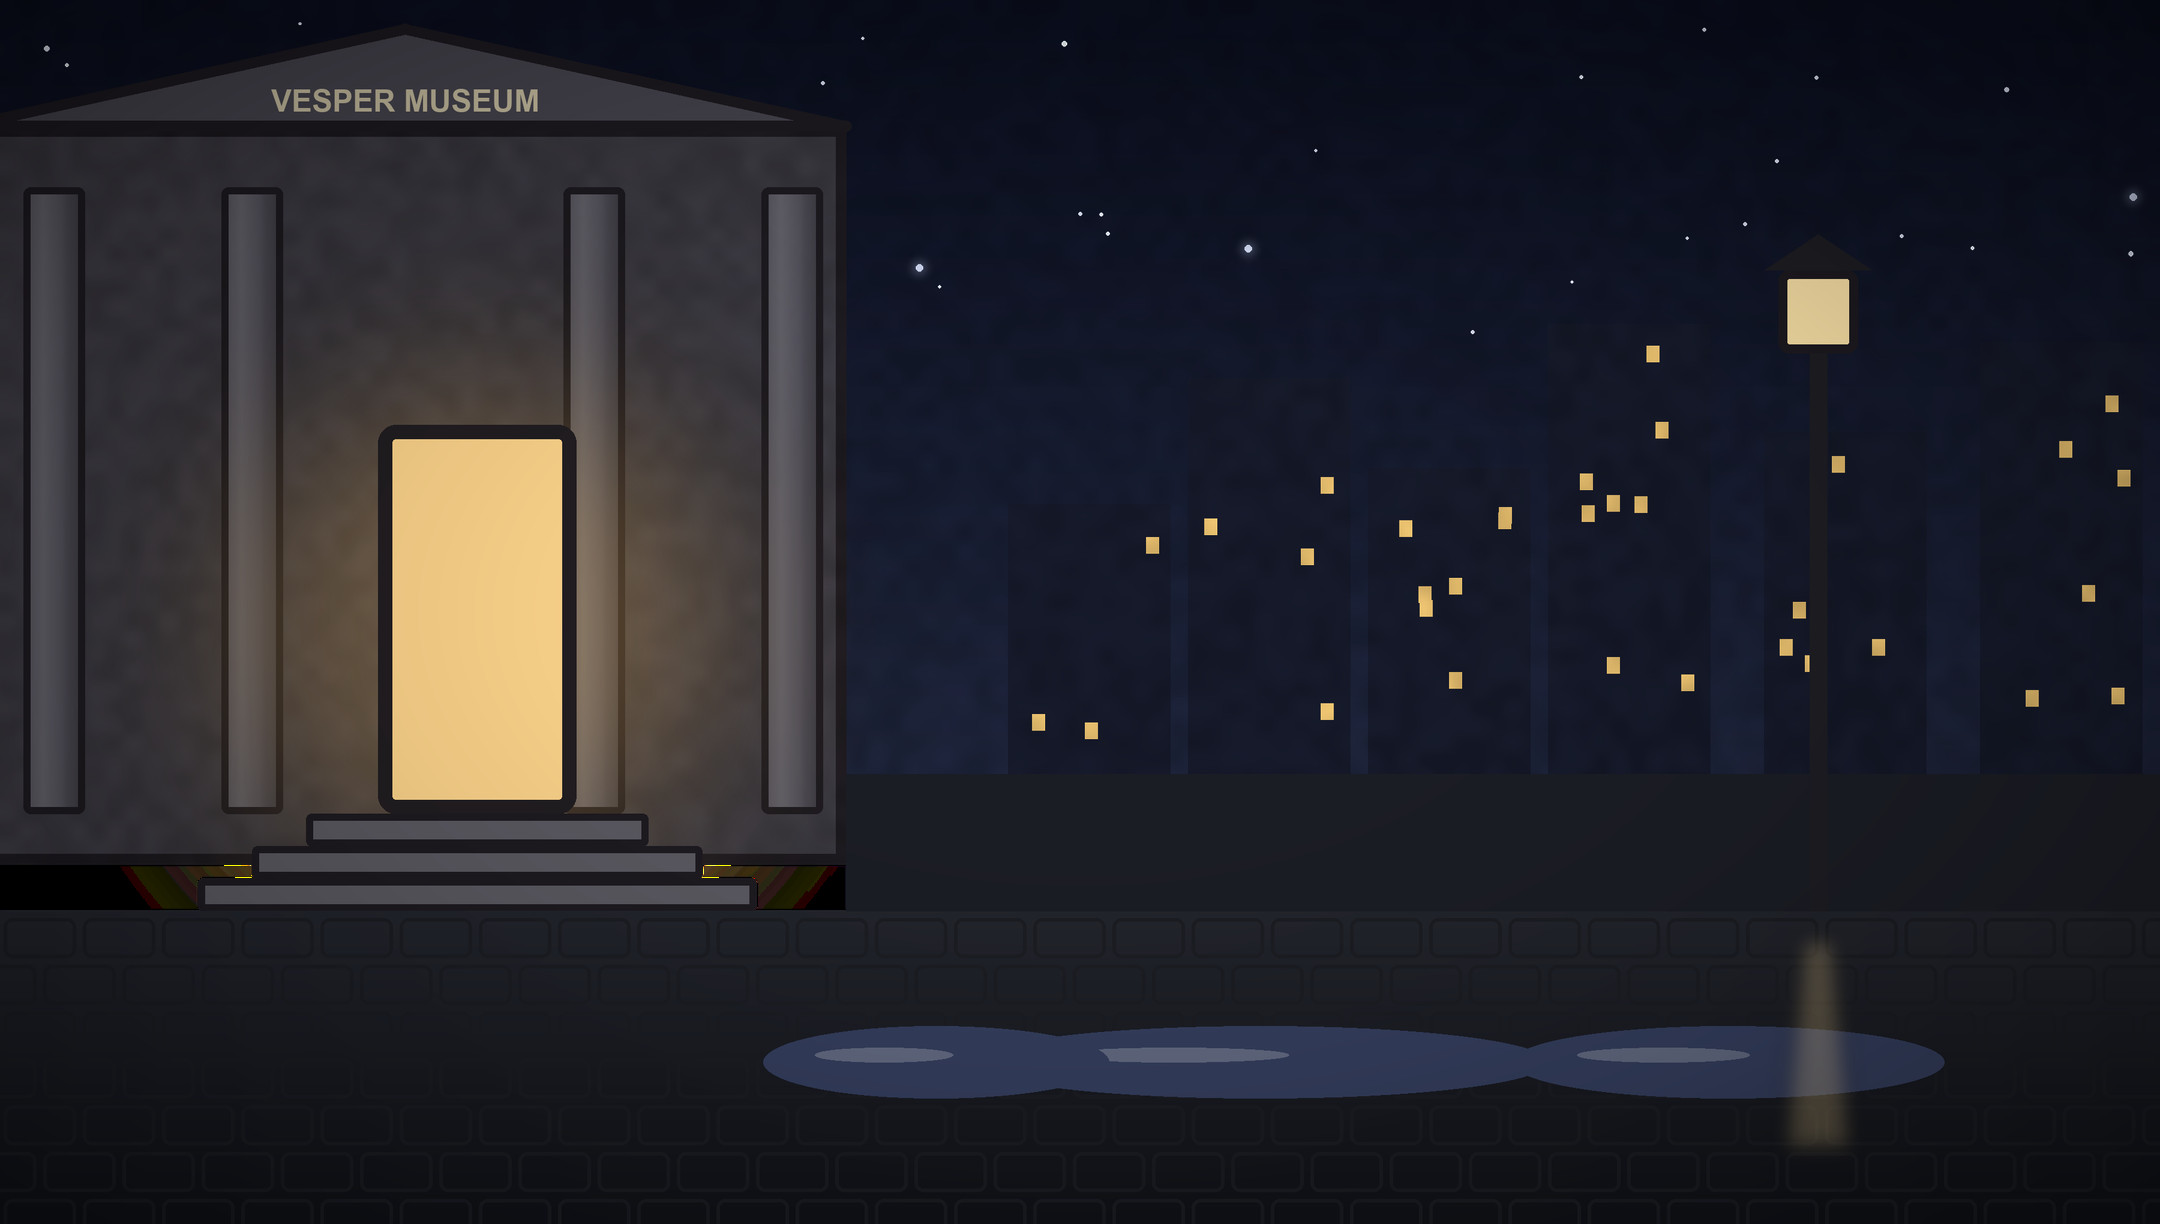
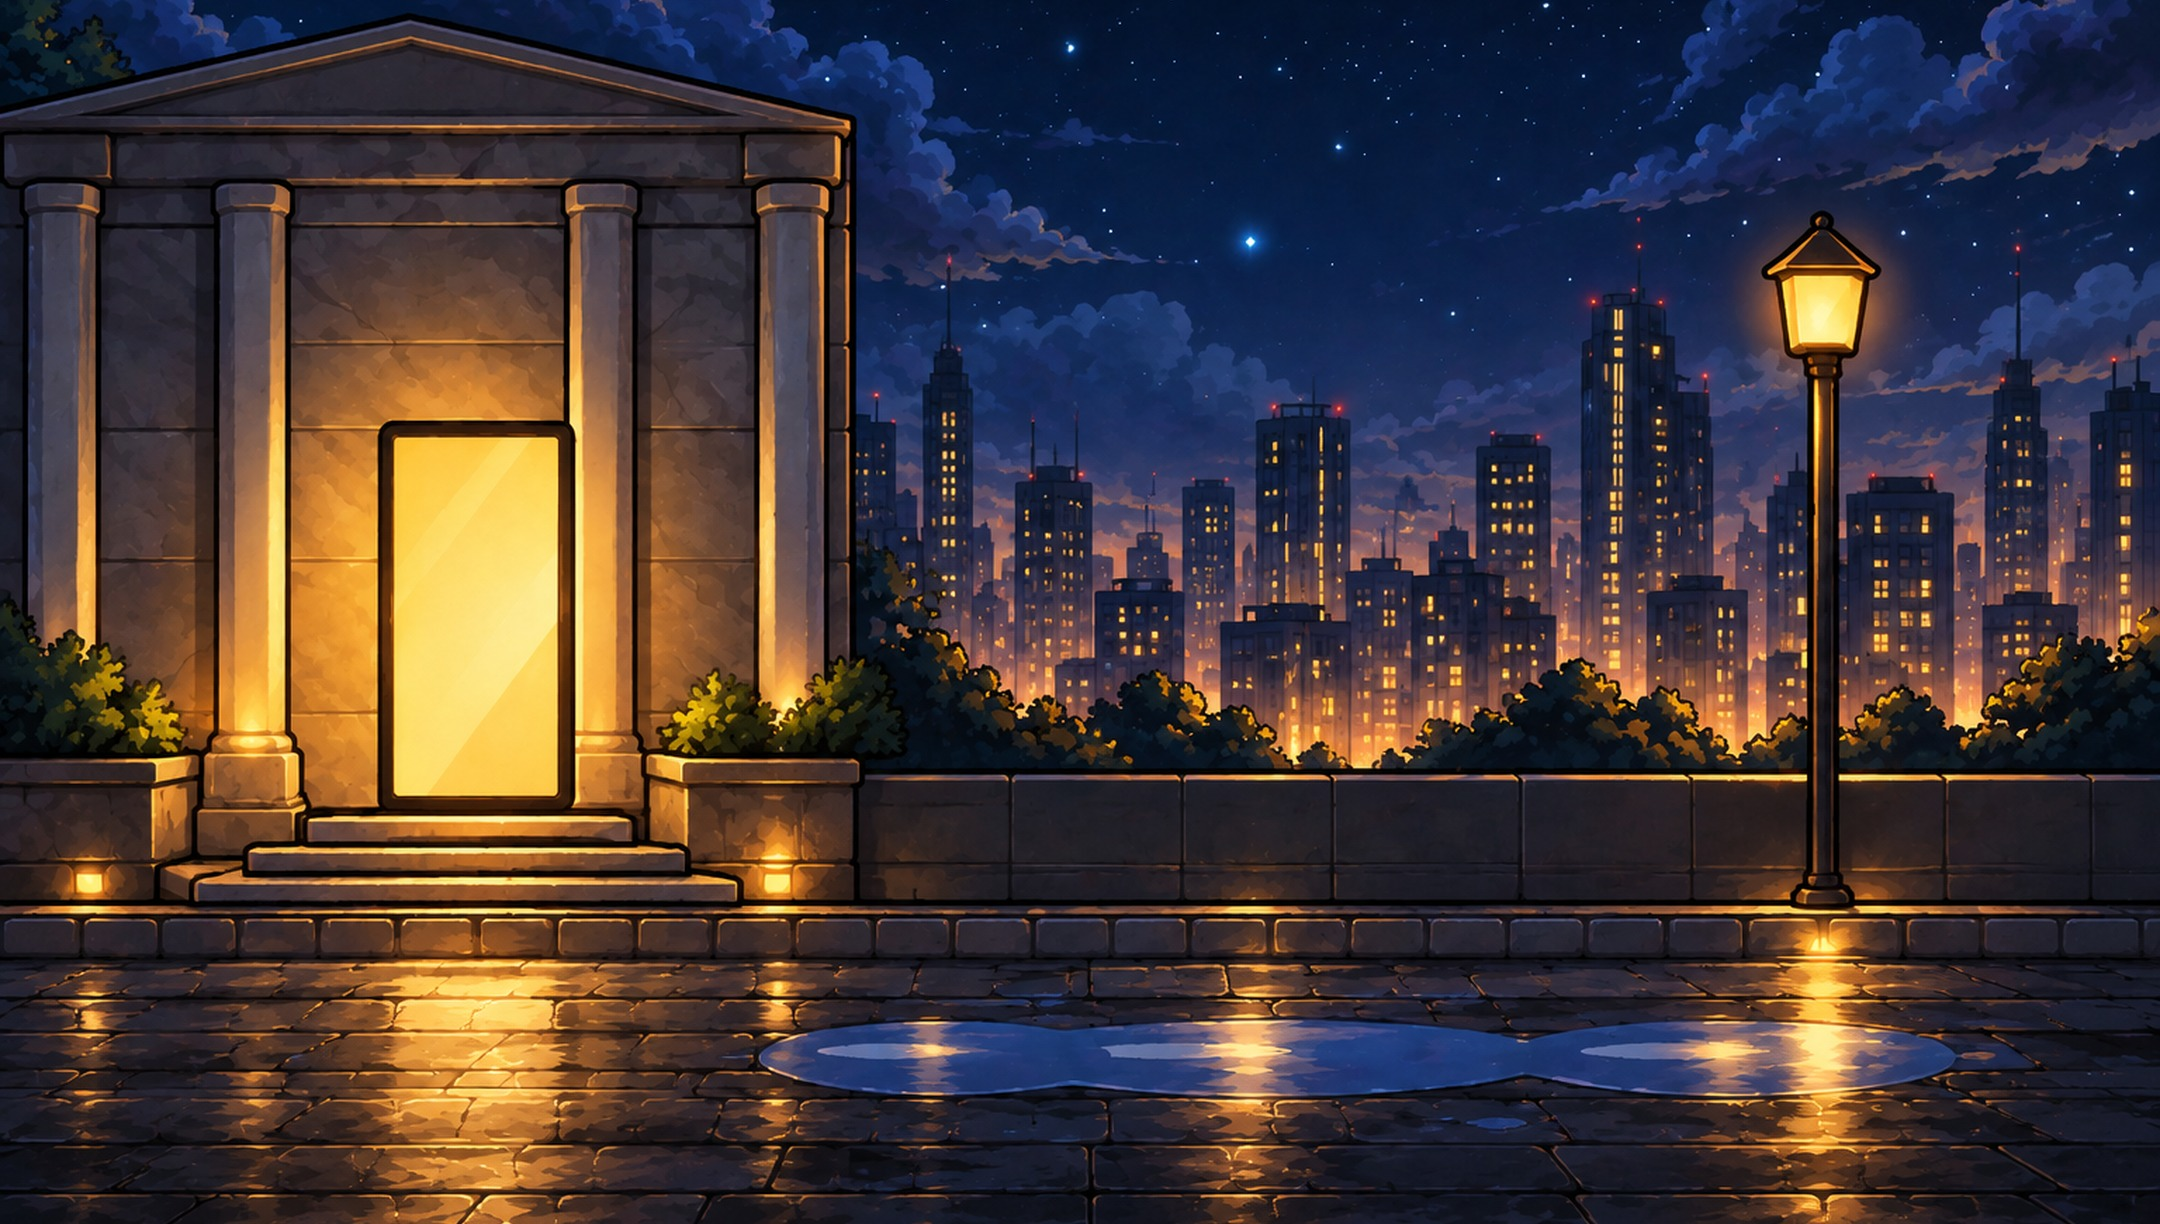
feat: neue Rauswurf-Hintergruende, Zug-Vorspann mit echten Geraeuschen, Kamera-Zoom und Moebel ueber dem Sichtschatten fuer Karten-Plugins; version 1.0.3.11
Testversion nach 1.0.3.10.

Rauswurf-Szenen
- 25 Hintergruende der Rauswurf-Szenen neu gemalt (zwei Runden, die bessere Fassung je Szene ausgewaehlt), dazu der
  Vordergrund des Pool-Rauswurfs im Moonlight Carnival passend zum neuen Bild. Die Wildwasserbahn hat jetzt festen Boden
  und ein Becken.

Polaris Express: Vorspann
- Der Vorspann ist komplett neu gerendert und hat statt der synthetischen Geraeusche echte Aufnahmen (Dampfpfiff,
  Dampfzischen, Lokstampfen, Schritte, Tueren, Klirren, Feuer; alle CC0 von OpenGameArt, Quellen in sfx_LICENSES.txt der
  Vorspann-Werkstatt). Wind und Schienenrattern bleiben synthetisch. Abspann-Karte mit "made by The Unknown".

Fuer Karten anderer Plugins (AtlasMapDef)
- CameraZoom: Faktor auf den Bildausschnitt im Kamera-Minispiel (1 = Vanilla, groesser = weiter herausgezoomt).
- PropTops: Prop-Index -> Welt-y, ab der das obere Stueck eines hohen Moebels ueber dem Sichtschatten liegt. Hohe Moebel an
  Innenwaenden verschwanden sonst oben im Schatten der Wand. Das Stueck bekommt ein eigenes Sprite ohne Masken-Material vor
  dem Schatten-Viereck der Kamera; das untere Stueck bleibt normal sortiert. Es zeigt nur das Moebel, nie Spieler.
- Neue Minispiel-Arten: "watering" und "roast" (neuer Baustein HoldTargetsMechanic: vier Ziele, auf jedem kurz die
  Maustaste halten, bis es umschlaegt, optional mit Werkzeug an der Maus) und "lunch" (Sortieren wie "bins"). Grafik und
  Texte wie immer ueber TaskArt/TaskText.
[…]

diff --git a/src/AtlasAssetCatalog.g.cs b/src/AtlasAssetCatalog.g.cs
@@ -9,7 +9,7 @@ namespace UnknownsAtlas;
 
 internal static class AtlasAssetCatalog
 {
-    public const string Tag = "v14";
+    public const string Tag = "v15";
 
     public static readonly (string Name, string Res, long Size, string Sha256)[] Files =
     {
@@ -95,13 +95,13 @@ internal static class AtlasAssetCatalog
[15 lines of base64/hex data omitted]
@@ -113,17 +113,17 @@ internal static class AtlasAssetCatalog
[20 lines of base64/hex data omitted]
@@ -140,20 +140,20 @@ internal static class AtlasAssetCatalog
[26 lines of base64/hex data omitted]
@@ -161,20 +161,20 @@ internal static class AtlasAssetCatalog
[23 lines of base64/hex data omitted]
@@ -425,7 +425,7 @@ internal static class AtlasAssetCatalog
[8 lines of base64/hex data omitted]

diff --git a/src/AtlasMechanicsHold.cs b/src/AtlasMechanicsHold.cs
@@ -1,0 +1,105 @@
+// Unknown's Atlas - Copyright (C) 2026 DaUnknown-0
+// Licensed under GPL-3.0-or-later. See LICENSE for details.
+//
+// Baustein "Auf Zielen halten" (28.10.): vier Ziele nebeneinander, auf jedem die Maustaste kurz halten, bis es umschlaegt
+// (trocken -> gegossen, roh -> geroestet). Ein optionales Werkzeug folgt beim Halten der Maus. Fuer Karten anderer Plugins:
+// die Arten "watering" und "roast" sind derselbe Baustein, Grafik und Texte kommen ueber AtlasMapDef.TaskArt/TaskText
+// ("<art>:task_hold_bg.png", "task_hold_center.png", "task_hold_off.png", "task_hold_on.png", "task_hold_tool.png",
+// Text "HOLD ON EACH ONE").
+
+using System.Collections.Generic;
+using TMPro;
+using UnityEngine;
+
+namespace UnknownsAtlas;
+
+internal sealed class HoldTargetsMechanic : IAtlasMechanic
+{
+    private readonly string _kind;
+    public string Name => _kind;
+    const float Need = 1.2f, Reach = 0.75f;
+    private readonly List<(Vector2 P, SpriteRenderer R, Vector3 Scale)> _targets = new();
+    private readonly float[] _held = new float[4];
+    private readonly bool[] _on = new bool[4];
+    private Sprite _onSprite;
+    private SpriteRenderer _tool;
+    private TextMeshPro _msg;
+    private InputScript _script;
+    private float _t;
+
+    public HoldTargetsMechanic(string kind) { _kind = kind; }
+
+    public float Progress { get { int n = 0; foreach (var o in _on) if (o) n++; return n / 4f; } }
+    public bool Done { get; private set; }
+
+    public void Build(Transform root, AtlasTaskCtx ctx)
+    {
+        AtlasTaskKit.Sprite(root, "task_wald_panel.png", 100f, Vector2.zero, 0);
+        if (AtlasAssets.TaskArtExists(AtlasTaskKit.Art("task_hold_bg.png")))
+            AtlasTaskKit.Sprite(root, "task_hold_bg.png", 100f, Vector2.zero, 1);
+        if (AtlasAssets.TaskArtExists(AtlasTaskKit.Art("task_hold_center.png")))
+            AtlasTaskKit.Sprite(root, "task_hold_center.png", 100f, new Vector2(0f, -1.35f), 2);
+        _onSprite = AtlasAssets.TaskSprite("task_hold_on.png", 100f, new Vector2(0.5f, 0.5f));
+        for (int i = 0; i < 4; i++)
+        {
+            var p = new Vector2(-2.4f + i * 1.6f, 0.55f);
+            var r = AtlasTaskKit.Sprite(root, "task_hold_off.png", 100f, p, 3);
+            _targets.Add((p, r, r.transform.localScale));
+        }
+        if (AtlasAssets.TaskArtExists(AtlasTaskKit.Art("task_hold_tool.png")))
+        {
+            _tool = AtlasTaskKit.Sprite(root, "task_hold_tool.png", 100f, Vector2.zero, 8, new Vector2(0.15f, 0.2f));
+            _tool.enabled = false;
+        }
+        _msg = MatchKit.Text(root, new Vector2(0f, 2.25f), AtlasTaskKit.T("HOLD ON EACH ONE"), 2.2f, Color.white, 9);
+    }
+
+    public void Tick(float dt, Vector2 mouse, bool down, bool pressed)
+    {
+        if (Done) return;
+        _t += dt;
+        int hover = -1;
+        for (int i = 0; i < 4; i++)
+            if (!_on[i] && Vector2.Distance(mouse, _targets[i].P) < Reach) { hover = i; break; }
+        if (_tool != null)
+        {
+            _tool.enabled = down;
+            _tool.transform.localPosition = new Vector3(mouse.x, mouse.y, _tool.transform.localPosition.z);
+            _tool.transform.localEulerAngles = new Vector3(0f, 0f, down && hover >= 0 ? Mathf.Sin(_t * 9f) * 6f : 0f);
+        }
+        for (int i = 0; i < 4; i++)
+        {
+            if (_on[i]) continue;
+            var (p, r, sc) = _targets[i];
+            if (down && hover == i) _held[i] += dt;
+            float k = Mathf.Clamp01(_held[i] / Need);
+            // waehrend des Haltens wackelt das Ziel leicht und wird heller
+            float wob = down && hover == i ? 1f + 0.05f * Mathf.Sin(_t * 18f) : 1f;
+            r.transform.localScale = sc * wob;
+            r.color = Color.Lerp(new Color(0.8f, 0.8f, 0.8f), Color.white, k);
+            if (k >= 1f)
+            {
+                _on[i] = true;
+                r.sprite = _onSprite;
+                r.color = Color.white;
+                r.transform.localScale = sc * 1.08f;
+            }
+        }
+        int n = 0;
+        foreach (var o in _on) if (o) n++;
+        if (n == 4) { Done = true; _msg.text = AtlasTaskKit.T("DONE"); if (_tool != null) _tool.enabled = false; }
+        else _msg.text = $"{AtlasTaskKit.T("HOLD ON EACH ONE")}  {n}/4";
+    }
+
+    public void Simulate(float dt, out Vector2 mouse, out bool down)
+    {
+        if (_script == null)
+        {
+            _script = new InputScript();
+            foreach (var t in _targets) _script.Hold(t.P, Need + 0.25f);
+        }
+        _script.Next(dt, out mouse, out down);
+    }
+
+    public void Dispose() { }
+}

diff --git a/src/AtlasMuseumBuilder.cs b/src/AtlasMuseumBuilder.cs
@@ -969,14 +969,68 @@ internal static class AtlasMuseumBuilder
             }
             Mask(sr);
             PropRenderers.Add(sr);
+            SpriteRenderer topSr = null;
+            if (D.PropTops != null && D.PropTops.TryGetValue(n, out var splitY))
+            {
+                topSr = AddPropTop(go, p, splitY);
+                if (sprite == null && topSr != null)
+                {
+                    var pp = p; var ts = topSr;
+                    LateFill.Add(() => FillPropTop(ts, pp, splitY));
+                }
+                else FillPropTop(topSr, p, splitY);
+            }
             float top = p.WorldY + p.H / D.PropPixelsPerMeter;
             // Das Skelett ist das Schaustueck der Rotunde: nie ausblenden (User 22.09.).
             if (top - p.BaseY > FadeMinHeight && !D.NoFadeKinds.Contains(p.Kind))
-                FadeProps.Add(new FadeProp(sr, p.FootX0, p.FootX1, p.BaseY, top));
+                FadeProps.Add(new FadeProp(sr, p.FootX0, p.FootX1, p.BaseY, top) { TopR = topSr });
             n++;
         }
         AtlasPlugin.Logger.LogInfo($"{LogPrefix} props sorted at the back of their footprint: {backSorted}/{n}");
         return n;
+    }
+
+    /// <summary>Oberes Stueck eines Props ueber dem Sichtschatten (AtlasMapDef.PropTops): eigenes Sprite ohne Masken-Material,
+    /// z vor dem Schatten-Viereck der Kamera. Das untere Stueck bleibt normal sortiert und maskiert.</summary>
+    private static SpriteRenderer AddPropTop(GameObject prop, (string Kind, int Atlas, int X, int Y, int W, int H, float WorldX, float WorldY, float BaseY, float FootX0, float FootX1) p, float splitY)
+    {
+        float rows = (splitY - p.WorldY) * D.PropPixelsPerMeter;
+        if (rows <= 1f || rows >= p.H - 2) return null;
+        var go = new GameObject("PropTop") { layer = prop.layer };
+        go.transform.SetParent(prop.transform, false);
+        go.transform.position = new Vector3(p.WorldX, splitY, TopZ());
+        return go.AddComponent<SpriteRenderer>();
+    }
+
+    private static void FillPropTop(SpriteRenderer sr, (string Kind, int Atlas, int X, int Y, int W, int H, float WorldX, float WorldY, float BaseY, float FootX0, float FootX1) p, float splitY)
+    {
+        if (sr == null) return;
+        var tex = AtlasAssets.MapPropsTexture(D, p.Atlas);
+        if (tex == null) return;
+        int rows = Mathf.RoundToInt((splitY - p.WorldY) * D.PropPixelsPerMeter);
+        var s = Sprite.Create(tex, new Rect(p.X, p.Y + rows, p.W, p.H - rows), Vector2.zero, D.PropPixelsPerMeter);
+        s.hideFlags |= HideFlags.HideAndDontSave | HideFlags.DontSaveInEditor;
+        sr.sprite = s;
+        // das untere Stueck um die gleichen Zeilen kuerzen, sonst liegt dort das Bild doppelt
+        var low = sr.transform.parent != null ? sr.transform.parent.GetComponent<SpriteRenderer>() : null;
+        if (low != null && low.sprite != null && Mathf.Approximately(low.sprite.rect.height, p.H))
+        {
+            var s2 = Sprite.Create(tex, new Rect(p.X, p.Y, p.W, rows), Vector2.zero, D.PropPixelsPerMeter);
+            s2.hideFlags |= HideFlags.HideAndDontSave | HideFlags.DontSaveInEditor;
+            low.sprite = s2;
+        }
+    }
+
+    /// <summary>z knapp vor dem Schatten-Viereck (ShadowCollab haengt an der Hauptkamera); ohne Schatten -1.</summary>
+    private static float TopZ()
+    {
+        try
+        {
+            foreach (var sc in Object.FindObjectsOfType<ShadowCollab>())
+                if (sc != null && sc.ShadowQuad != null) return sc.ShadowQuad.transform.position.z - 0.05f;
+        }
+        catch { }
+        return -1f;
     }
 
     /// <summary>
@@ -1091,6 +1145,7 @@ internal static class AtlasMuseumBuilder
 
     private sealed class FadeProp
     {
+        public SpriteRenderer TopR;
         public readonly SpriteRenderer R;
         public readonly float X0, X1, Base, Top;
         public float Alpha = 1f;
@@ -1199,6 +1254,7 @@ internal static class AtlasMuseumBuilder
             f.Alpha = Mathf.MoveTowards(f.Alpha, target, step);
             var c = f.R.color;
             f.R.color = new Color(c.r, c.g, c.b, f.Alpha);
+            if (f.TopR != null) f.TopR.color = new Color(c.r, c.g, c.b, f.Alpha);
         }
     }
 

diff --git a/src/AtlasWorld.cs b/src/AtlasWorld.cs
@@ -666,6 +666,32 @@ internal static class AtlasWorld
         }
     }
 
+    // ------------------------------------------------------------------ Kamera-Minispiel: Bildausschnitt
+
+    /// <summary>AtlasMapDef.CameraZoom: die Kameras des Minispiels rendern in dessen RenderTextures; ihre Groesse
+    /// einmal beim Oeffnen mit dem Faktor der Karte multiplizieren (jede Oeffnung legt neue Kameras an).</summary>
+    [HarmonyPostfix]
+    [HarmonyPatch(typeof(SurveillanceMinigame), nameof(SurveillanceMinigame.Begin))]
+    internal static void SurveillanceMinigame_Begin_Postfix(SurveillanceMinigame __instance)
+    {
+        try
+        {
+            float zoom = AtlasMuseumBuilder.D != null ? AtlasMuseumBuilder.D.CameraZoom : 1f;
+            if (!AtlasMuseumBuilder.Active || __instance == null || __instance.textures == null || Mathf.Approximately(zoom, 1f)) return;
+            var targets = new HashSet<IntPtr>();
+            foreach (var t in __instance.textures) if (t != null) targets.Add(t.Pointer);
+            int n = 0;
+            foreach (var cam in Camera.allCameras)
+            {
+                if (cam == null || cam.targetTexture == null || !targets.Contains(cam.targetTexture.Pointer)) continue;
+                cam.orthographicSize *= zoom;
+                n++;
+            }
+            AtlasPlugin.Logger.LogInfo($"[Atlas/World] surveillance: {n} camera(s) zoomed x{zoom:F2}");
+        }
+        catch (Exception e) { AtlasPlugin.Logger.LogWarning($"[Atlas/World] surveillance zoom: {e.Message}"); }
+    }
+
     // ------------------------------------------------------------------ Kamera-Minispiel: Laserprotokoll
 
     [HarmonyPostfix]

diff --git a/src/AtlasMapDef.cs b/src/AtlasMapDef.cs
@@ -69,6 +69,13 @@ public sealed class AtlasMapDef
     public Vector2[] Cameras;
     /// <summary>Eigener Blickpunkt je Kamera-Index (sonst die Mitte des Raums, in dem die Kamera haengt).</summary>
     public Dictionary<int, Vector2> CameraViews = new();
+    /// <summary>Bildausschnitt im Kamera-Minispiel: Faktor auf die Kamera-Groesse (1 = Vanilla, groesser = weiter
+    /// herausgezoomt).</summary>
+    public float CameraZoom = 1f;
+    /// <summary>Optional: Prop-Index (in Props) -> Welt-y, ab der das Bild ueber dem Sichtschatten liegt. Fuer hohe Moebel
+    /// an Innenwaenden, deren oberes Stueck sonst im Schatten der Wand verschwindet; das Stueck bleibt dann auch hinter
+    /// der Wand sichtbar (nur Moebel, keine Spieler).</summary>
+    public Dictionary<int, float> PropTops = new();
     public Dictionary<SystemTypes, Vector2> MapButtons;
     /// <summary>Raumnamen auf der Minimap (Weltmeter: Mitte, halbe Breite/Hoehe); Knoepfe weichen ihnen aus.</summary>
     public (float X, float Y, float HalfW, float HalfH)[] MapLabels = System.Array.Empty<(float, float, float, float)>();

diff --git a/src/AtlasMinigame.cs b/src/AtlasMinigame.cs
@@ -187,6 +187,10 @@ public class AtlasMinigame : Minigame
         "ammonia" => new ValvePlanMechanic(),
         "blackout" => new SwitchesMechanic(false),
         "feedback" => new TuneMechanic(true),
+        // 28.10.: fuer Karten anderer Plugins (Grafik/Texte ueber TaskArt/TaskText)
+        "watering" => new HoldTargetsMechanic("watering"),
+        "roast" => new HoldTargetsMechanic("roast"),
+        "lunch" => step == 0 ? new SortMechanic(false) : new HoldLeverMechanic(false),
         _ => null,
     };
 
